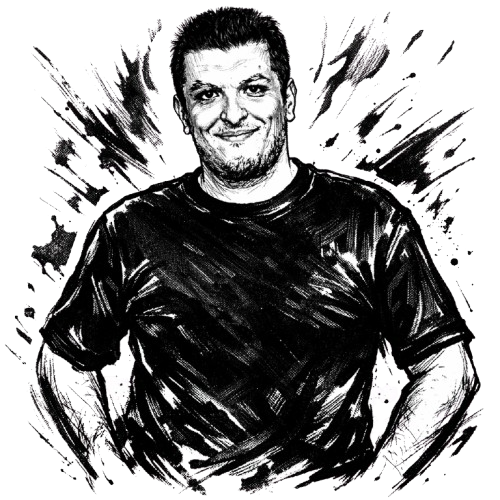
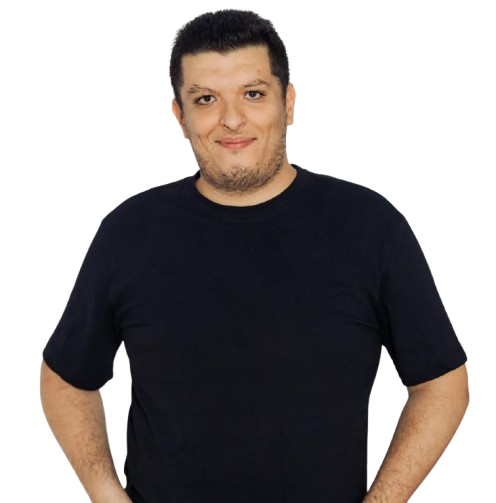
change developer photo

diff --git a/app/page.tsx b/app/page.tsx
@@ -24,7 +24,9 @@ export default function Home() {
 
         <div className="mt-4 space-y-1 text-sm md:text-base">
           <TypingText text="> Hello world." />
+          <br />
           <TypingText text="> I'm Mohamed Amine LAZREG," />
+          <br />
           <TypingText text="> Software Developer." />
         </div>
       </div>

diff --git a/app/contact/page.tsx b/app/contact/page.tsx
@@ -12,7 +12,7 @@ export default function PricingPage() {
             Contact
           </h1>
         </div>
-        <Image alt="That's Me" height={1000} src="/amine.png" width={1000} />
+        <Image alt="That's Me" height={500} src="/amine.png" width={500} />
         <div className="my-10" />
         <ContactForm />
       </div>

diff --git a/components/app/typing-text.tsx b/components/app/typing-text.tsx
@@ -20,9 +20,9 @@ export default function TypingText({ text, speed = 80 }: TypingTextProps) {
   }, [index, text, speed]);
 
   return (
-    <h1 className="font-mono text-3xl">
+    <i className="font-mono text-2xl">
       {displayedText}
       <span className="animate-pulse">|</span>
-    </h1>
+    </i>
   );
 }
